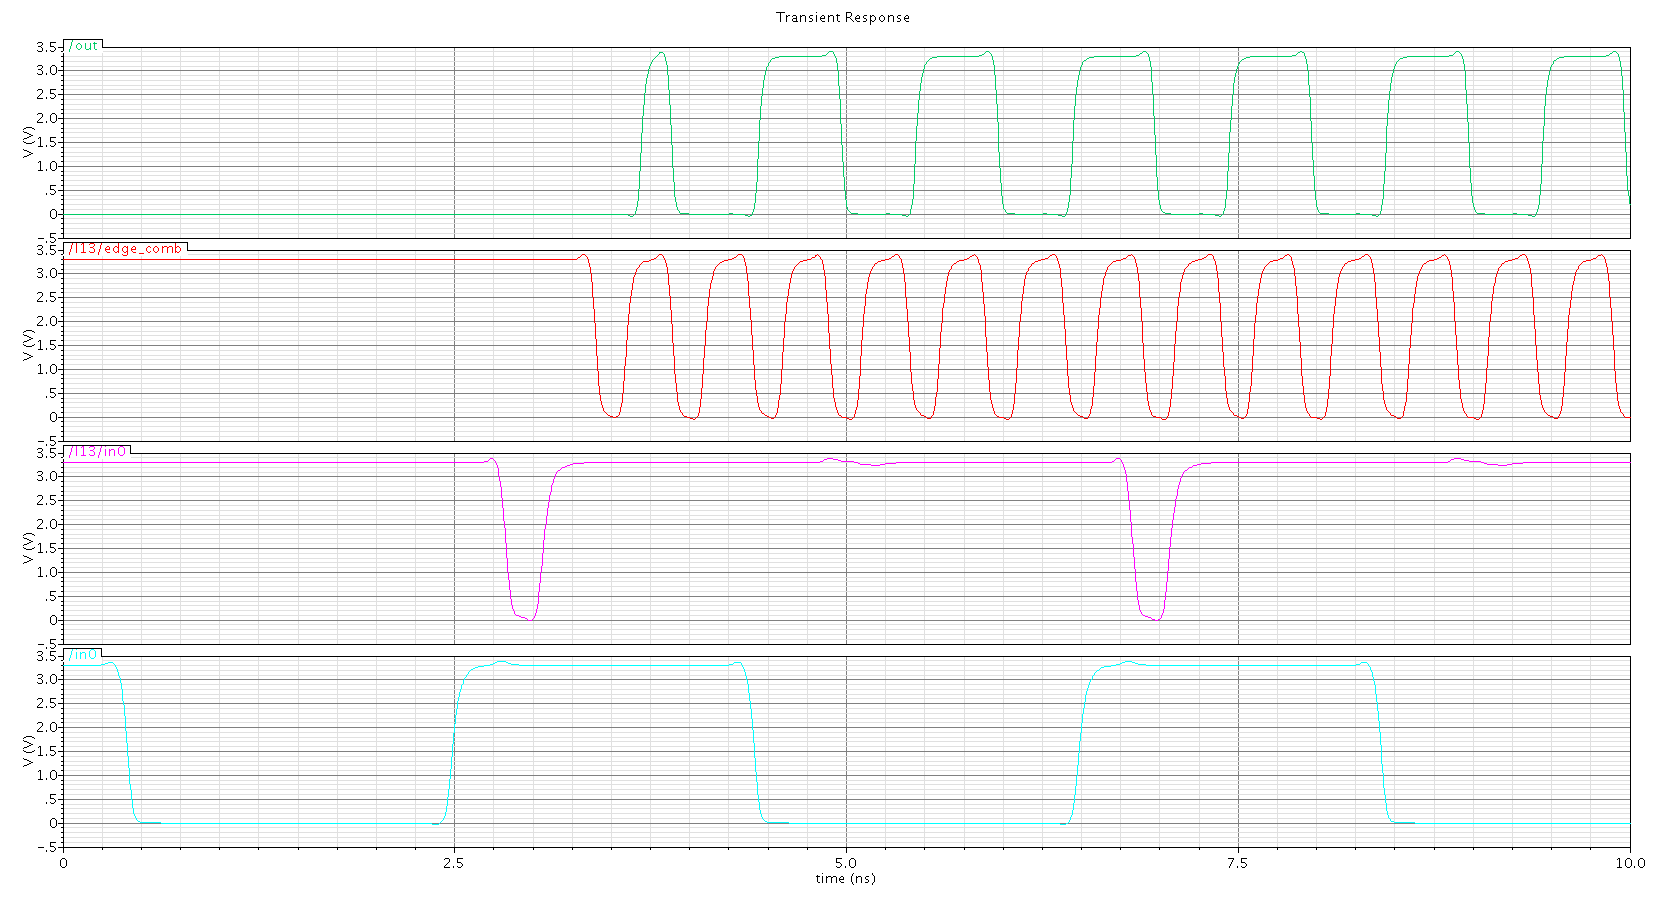
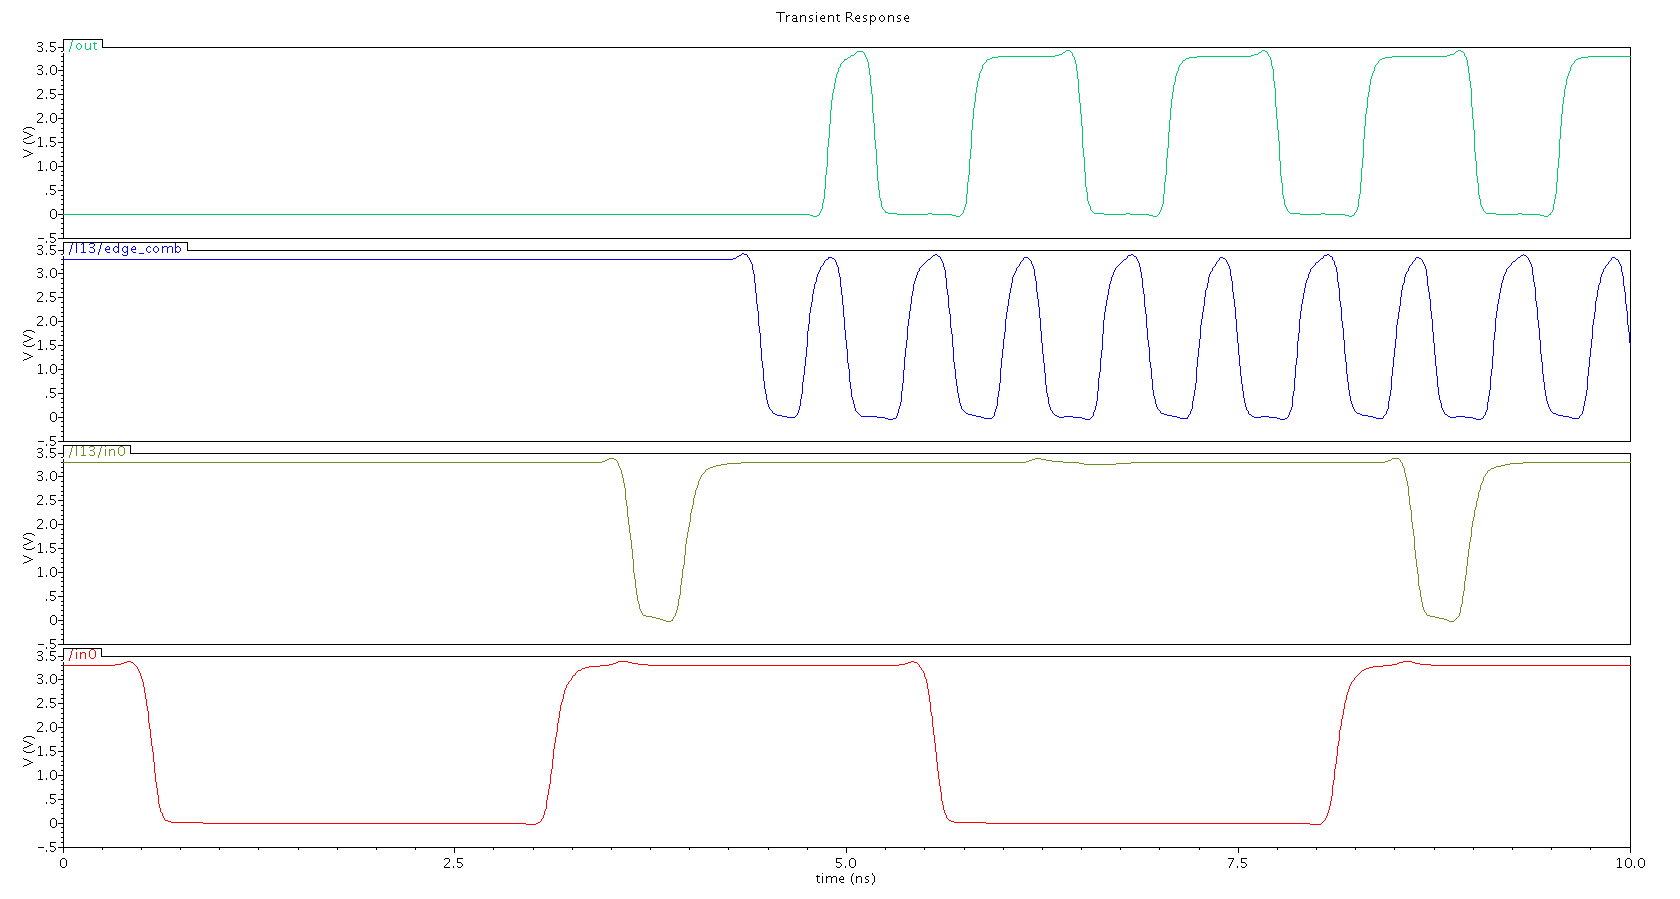
Skriv om risk och delays i freq mult

Changed region(s): [[0.031, 0.0623, 0.9595, 0.9344]]

diff --git a/Dokumentation/Transistor_Level/transistor.tex b/Dokumentation/Transistor_Level/transistor.tex
@@ -43,7 +43,6 @@
 %% Argument till \LIPSgruppmedlem: namn, roll i gruppen, telefonnummer, epost
 \selectlanguage{swedish}
 \begin{LIPSprojektidentitet}
-
         \LIPSgruppmedlem{Nora Björklund}{Project leader}{076 7756
         789}{norbj648@student.liu.se}
         \LIPSgruppmedlem{\LIPSdokumentansvarig}{Documentation}{073
@@ -52,7 +51,6 @@
         \LIPSgruppmedlem{Gustaf Bengtz}{}{07073607307}{gbengtz@gmail.com} 
         \LIPSgruppmedlem{Johan Berneland}{}{0704988329}{johbe915@student.liu.se}
 \end{LIPSprojektidentitet}
-
 
 \selectlanguage{english}
 
@@ -205,14 +203,14 @@ technology, so it was very difficult to reach an output frequency of 1 GHz.
 The transition detector consists of three inverters and a symmetric nand gate.
 The purpose of the transition detector is to produce negative pulses for every
 rising edge that reaches the input. The transistors are sized so the output
-pulse is approximately 200 ps long. The transistor layout can be seen
+pulse is approximately 230 ps long. The transistor layout can be seen
 in figure \ref{fig:trans_detect_trans}.
 A buffer is placed at the output of the circuit to improve rise and fall times.
 The gates are connected according to figure \ref{fig:trans_detect}.
 
 Earlier designs had a third input to the symmetric nand to control the
 multiplication factor of the circuit by only allowing certain pulses to pass.
-This was changed because it was difficult to get a 200 ps pulse with full swing
+This was changed because it was difficult to get a 230 ps pulse with full swing
 with this design.
 
 \begin{figure}[p]
@@ -266,6 +264,30 @@ sizing is inspired from \cite{dll_report}.
 \end{figure}
 
 \section{Simulation Result}
+The simulations have been run in different process variation corners and
+temperatures to examine the behaviour of the circuit. The process variation is
+the variations of the NMOS and PMOS between wafers and batches. 
+The process variation corners are where the process variations are biggest.
+The names of the process variation corners and their meaning can be seen in
+table \ref{tab:corners}.
+
+\begin{table}[h!]
+        \centering
+        \begin{tabular}{|l|l|}
+                \hline 
+                cmostm & Typical Mean - the normal values for PMOS and NMOS \\
+                cmoswp & Worst Power - PMOS and NMOS work faster than normal \\
+                cmosws & Worst Speed - PMOS and NMOS work slower than normal \\
+                cmoswo & Worst One - PMOS is slower than normal and NMOS is
+                faster than normal \\
+                cmoswz & Worst Zero - PMOS is faster than normal and NMOS is
+                slower than normal \\
+                \hline
+        \end{tabular}
+        \caption{Process Variation Corners}
+        \label{tab:corners}
+\end{table}
+
 \subsection{Whole System Simulation}
 \subsection{Phase Detector}
 \subsection{Counter}
@@ -274,7 +296,7 @@ sizing is inspired from \cite{dll_report}.
 \subsection{Frequency Multiplier}
 The signal that is of biggest importance in the frequency multiplier is the
 combined edges. This is because if the pulses are too wide the combination of
-them will be constant low, and if they are too short the combined edges will not
+them will be constantly low, and if they are too short the combined edges will not
 reach full swing. In the simulations focus is put upon the pulse width of the
 combined edges. The pulse width should ideally be 120-230 ps for the toggle
 pulsed latch to work properly. The values of the pulse width for the
@@ -297,7 +319,7 @@ The output, combined edges, a single pulse and input can be seen in figure
                 cmosws & Not Working \\
                 \hline
         \end{tabular}
-        \caption{Pulse width of combined edges at 250 MHz, Corners}
+        \caption{Pulse width of combined edges at 250 MHz and 3.3 V supply voltage, Corners}
         \label{tab:pulsewidth_corn}
 \end{table}
 
@@ -312,7 +334,7 @@ The output, combined edges, a single pulse and input can be seen in figure
                 70 & 226.2 \\
                 \hline
         \end{tabular}
-        \caption{Pulse width of combined edges at 250 MHz, Temperatures}
+        \caption{Pulse width of combined edges at 250 MHz and 3.3 V supply voltage, Temperatures}
         \label{tab:pulsewidth_temp}
 \end{table}
 
@@ -324,12 +346,35 @@ The output, combined edges, a single pulse and input can be seen in figure
 \end{figure}
 
 \section{PAD Assignment} % Early test plan också
+%%%TODO skriva allt här!
 \section{Risks and Delays}
 \subsection{Phase Detector}
 \subsection{Counter}
 \subsection{Digitally Controlled Delay Line}
 \subsection{Lock Detector}
 \subsection{Frequency Multiplier}
+The risks from the high level report are no longer applicable on the frequency
+multiplier since the design has changed. Instead new risks have appeared in the
+new design which must be considered in the layout. The first thing to fail when
+the frequency is turned up is the edge combiner, which is reasonable since this
+is the first place where the higher frequency is handled. One way to combat this
+is to make the pulses from the transition detector smaller, but this is
+dangerous because then the signal might not reach full swing and it will be more
+sensitive to process variations, especially the fast fast corner. With the
+current design the slow, slow corner is of highest concern. In this corner the
+pulses from the transition detector have a pulse width of 356 ps which is too
+long to produce a 1 GHz output. To deal with this the input frequency must be
+lowered and the supply voltage increased. In the slow, slow corner the frequency
+multiplier works with 200 MHz and 3.6 V as the supply voltage.
+
+The most important things to assert in the layout is:
+\begin{itemize}
+        \item Full swing on pulse produced by transition detector
+        \item Pulsewidth of pulse produced by transition detector around 200-250 ps
+        \item Full swing on output of edge combiner
+        \item Pulsewidth on output of edge combiner around 200 ps
+        \item Full swing on internal nodes in the toggle pulsed latch
+\end{itemize}
 
 \newpage 
 \appendix 
